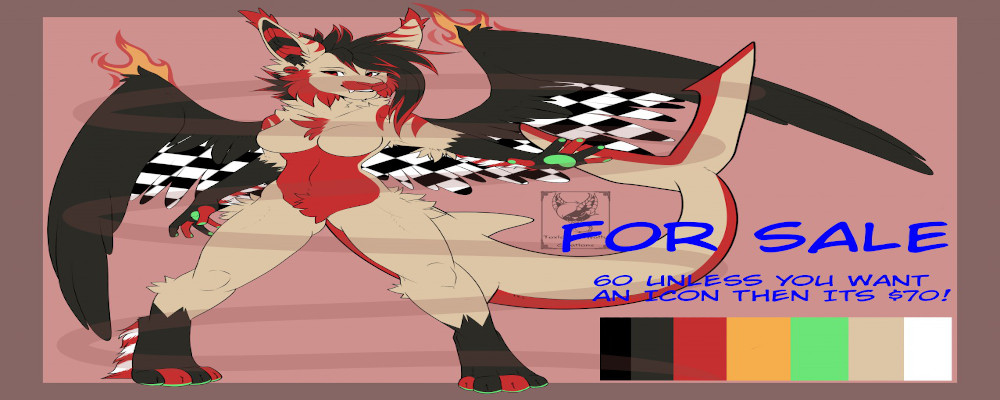
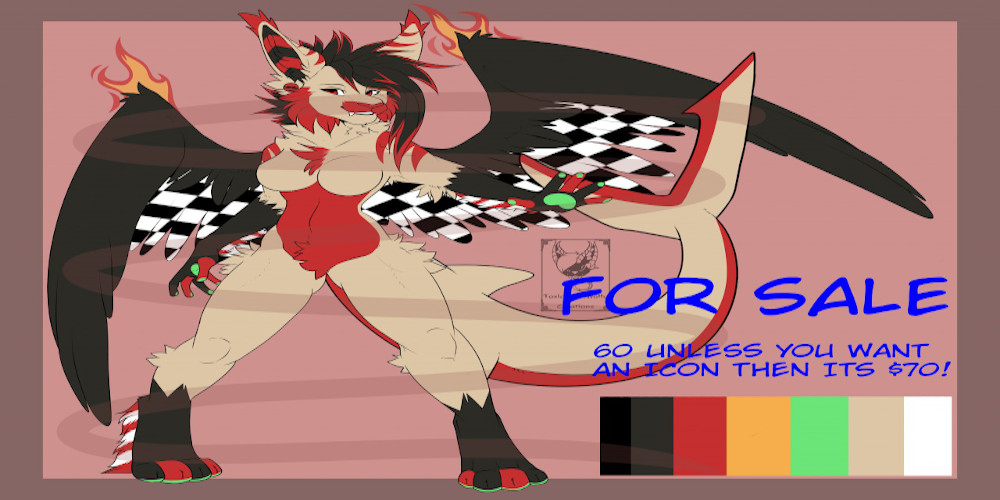
attempt to fix homepage on mobile devices

diff --git a/src/views/Home.vue b/src/views/Home.vue
@@ -6,7 +6,7 @@
     :interval="4000"
     controls
     img-width="1000"
-    img-height="400"
+    img-height="500"
     background="#ababab"
     style="text-shadow: 1px 1px 2px #333;"
     @sliding-start="onSlideStart"
